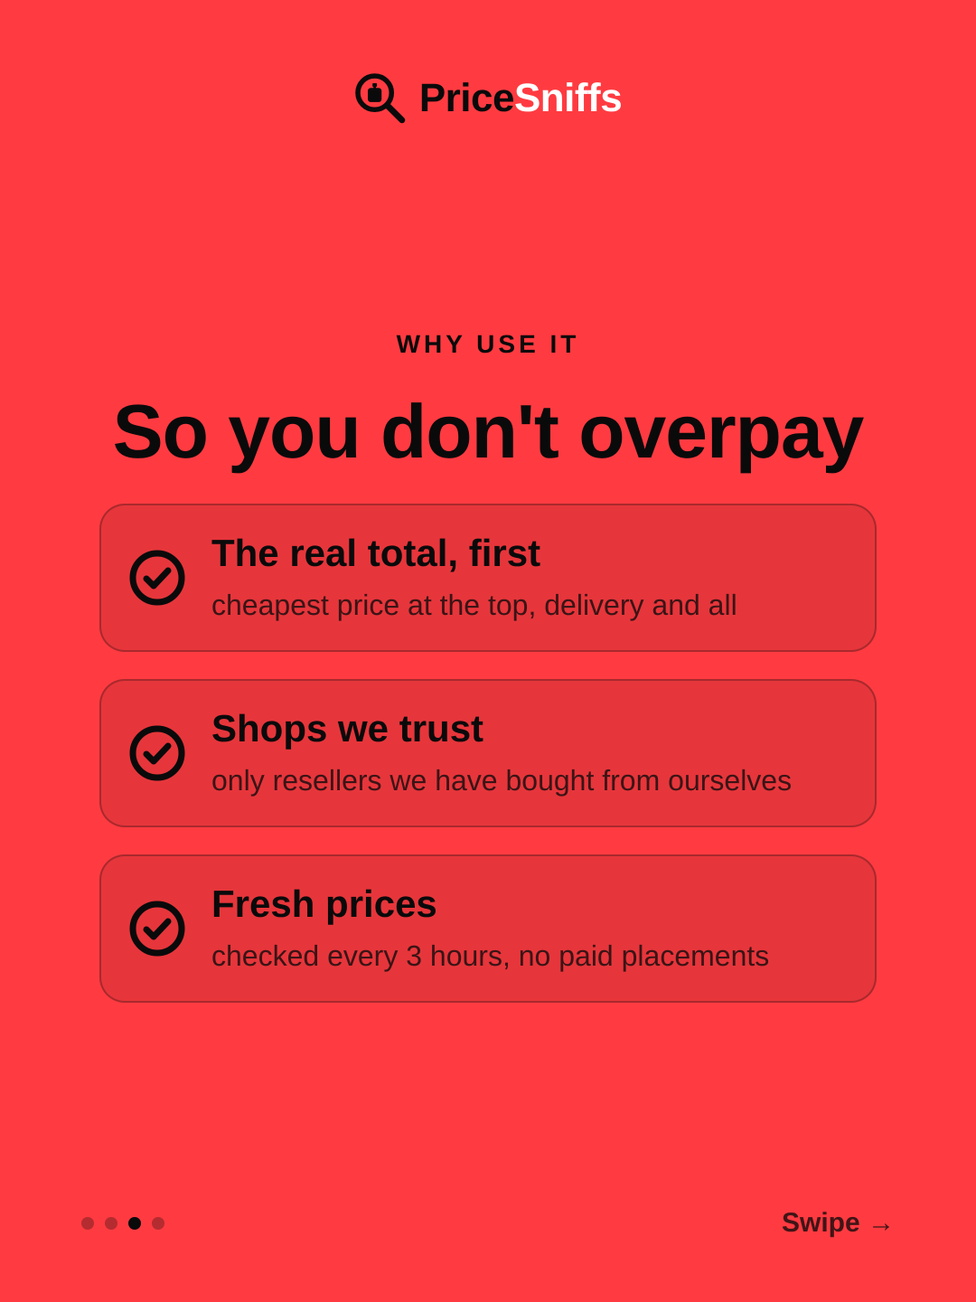
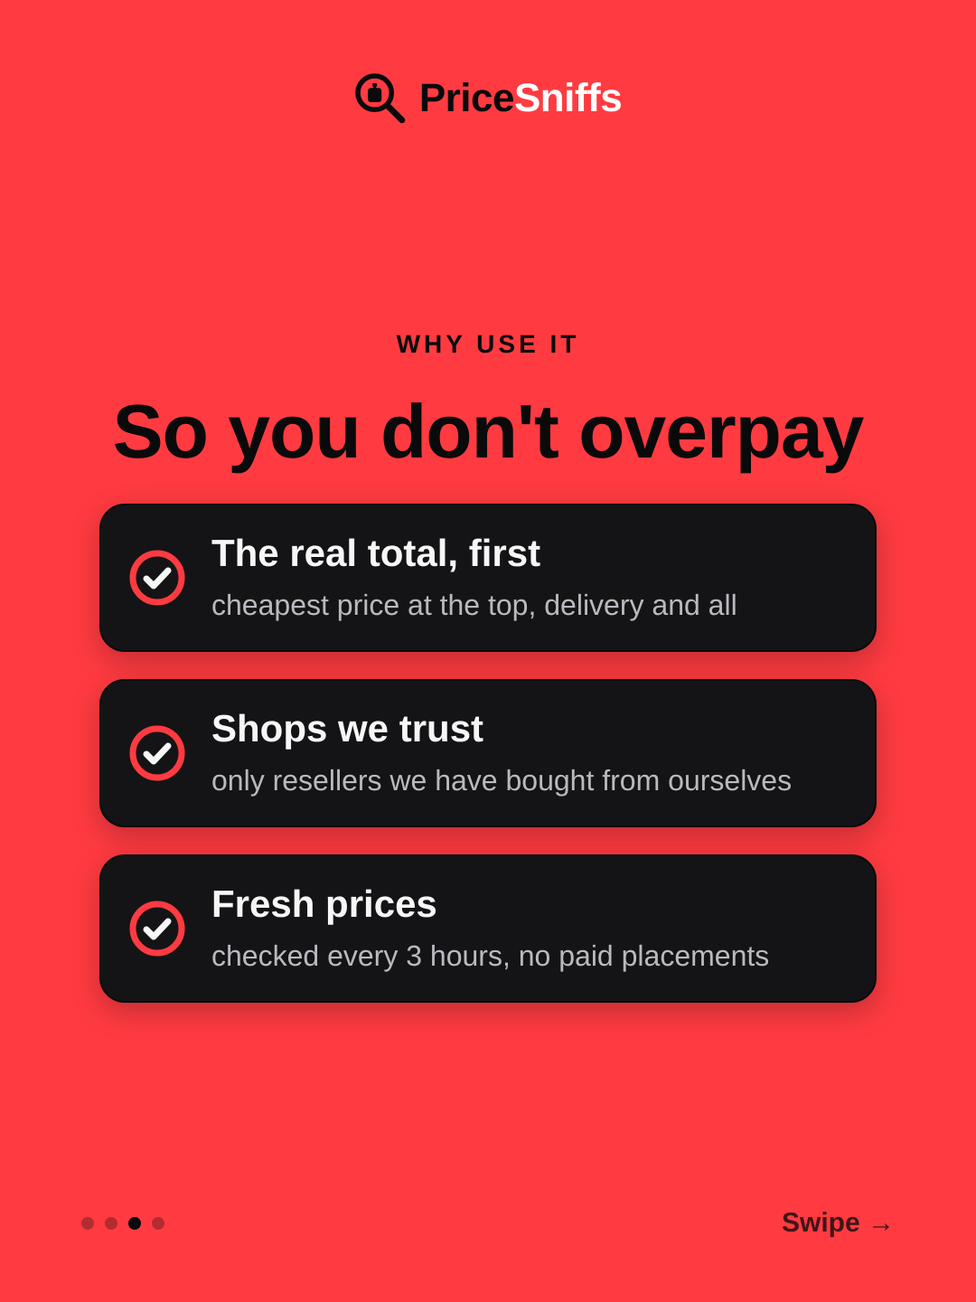
Social: near black cards in the inverted theme
Cards on red posts are now near black with a soft shadow, with white titles,
grey details and red ticks inside, so they stand out from the background.

Claude-Session: https://claude.ai/code/session_01R3frsh37eDNrxM6REtigC8

Changed region(s): [[0.0917, 0.375, 0.9167, 0.7812]]

diff --git a/social/posts/2026-10-02-what-is-pricesniffs/slide-1-3x4.html b/social/posts/2026-10-02-what-is-pricesniffs/slide-1-3x4.html
@@ -1,8 +1,9 @@
 <!doctype html><html><head><meta charset="utf-8"><meta name="social-size" content="1080x1440"><style>
   * { box-sizing: border-box; }
   html { --bg:#FF3B41; --ink:#0A0A0B; --ink-2:rgba(10,10,11,0.78); --ink-3:rgba(10,10,11,0.6); --accent:#FFFFFF; --kicker:#0A0A0B;
-    --card:rgba(10,10,11,0.1); --card-line:rgba(10,10,11,0.28); --icon:#0A0A0B; --icon-inner:#0A0A0B; --mark-ring:#0A0A0B; --mark-bottle:#0A0A0B;
-    --bar:rgba(10,10,11,0.3); --bar-best:#0A0A0B; --tag-bg:#0A0A0B; --tag-ink:#FF3B41; --pill-bg:#0A0A0B; --pill-ink:#FF3B41; --dot:rgba(10,10,11,0.3); --dot-on:#0A0A0B; }
+    --card:#141416; --card-line:#0A0A0B; --icon:#FF3B41; --icon-inner:#F7F7F8; --mark-ring:#0A0A0B; --mark-bottle:#0A0A0B;
+    --bar:#3A3A40; --bar-best:#FF3B41; --tag-bg:#FF3B41; --tag-ink:#0A0A0B; --pill-bg:#0A0A0B; --pill-ink:#FF3B41; --dot:rgba(10,10,11,0.3); --dot-on:#0A0A0B;
+    --card-ink:#F7F7F8; --card-ink-2:#B9B9C0; --card-ink-3:#8A8A93; --row-line:#26262B; --row-best:#FF3B41; --bar-rest:#5A5A62; }
   html, body { margin: 0; width: 1080px; height: 1440px; background: var(--bg); color: var(--ink);
     font-family: 'Liberation Sans', Arial, Helvetica, sans-serif; }
   main { height: 100%; padding: 80px 90px 70px; display: flex; flex-direction: column; align-items: center;
@@ -16,11 +17,11 @@
   .sub { margin: 0; font-size: 40px; line-height: 1.35; color: var(--ink-2); }
   .list { width: 100%; max-width: 860px; display: flex; flex-direction: column; gap: 30px; text-align: left; }
   .item { display: flex; align-items: center; gap: 28px; padding: 26px 30px; border-radius: 28px;
-    background: var(--card); border: 2px solid var(--card-line); }
+    background: var(--card); border: 2px solid var(--card-line); box-shadow: 0 10px 30px rgba(10,10,11,0.25); }
   .tick { flex: none; width: 64px; height: 64px; }
-  .item p { margin: 0; font-size: 38px; line-height: 1.3; }
+  .item p { margin: 0; font-size: 38px; line-height: 1.3; color: var(--card-ink); }
   .item b { display: block; font-size: 42px; margin-bottom: 4px; }
-  .item span { color: var(--ink-2); font-size: 32px; }
+  .item span { color: var(--card-ink-2); font-size: 32px; }
   .big-mark { width: 380px; height: 380px; }
   .foot { display: flex; align-items: center; justify-content: space-between; width: 100%; }
   .dots { display: flex; gap: 12px; }
@@ -28,17 +29,17 @@
   .dots i.on { background: var(--dot-on); }
   .swipe { font-size: 30px; font-weight: 700; color: var(--ink-2); }
   .pill { padding: 22px 52px; border-radius: 999px; background: var(--pill-bg); color: var(--pill-ink); font-size: 46px; font-weight: 700; }
-  .rows { width: 100%; max-width: 820px; border-radius: 28px; background: var(--card); border: 2px solid var(--card-line); padding: 10px 0; }
-  .row { display: flex; align-items: center; justify-content: space-between; padding: 22px 30px; border-bottom: 2px solid var(--card-line); }
+  .rows { width: 100%; max-width: 820px; border-radius: 28px; background: var(--card); border: 2px solid var(--card-line); padding: 10px 0; box-shadow: 0 10px 30px rgba(10,10,11,0.25); }
+  .row { display: flex; align-items: center; justify-content: space-between; padding: 22px 30px; border-bottom: 2px solid var(--row-line); }
   .row:last-child { border-bottom: 0; }
-  .row.best { border-left: 6px solid var(--ink); }
+  .row.best { border-left: 6px solid var(--row-best); }
   .shop { display: flex; align-items: center; gap: 16px; }
   .bar { height: 22px; border-radius: 11px; background: var(--bar); }
   .tag { font-size: 20px; font-weight: 700; letter-spacing: 2px; color: var(--tag-ink); background: var(--tag-bg); border-radius: 8px; padding: 6px 10px; }
   .price { display: flex; flex-direction: column; align-items: flex-end; gap: 8px; }
   .price .bar { background: var(--bar-best); }
-  .row:not(.best) .price .bar { background: var(--bar); }
-  .note { font-size: 20px; color: var(--ink-3); letter-spacing: 1px; text-transform: uppercase; }
+  .row:not(.best) .price .bar { background: var(--bar-rest); }
+  .note { font-size: 20px; color: var(--card-ink-3); letter-spacing: 1px; text-transform: uppercase; }
 </style></head><body><main>
   <div class="brandline"><svg class="mark" viewBox="240 240 610 610" aria-hidden="true"><circle cx="478" cy="478" r="196" fill="none" stroke="var(--mark-ring)" stroke-width="58"/><line x1="636" y1="636" x2="796" y2="796" stroke="var(--mark-ring)" stroke-width="72" stroke-linecap="round"/><g fill="var(--mark-bottle)"><rect x="452" y="366" width="52" height="42" rx="9"/><rect x="463" y="402" width="30" height="26"/><rect x="398" y="422" width="160" height="164" rx="34"/></g></svg><span>Price<em>Sniffs</em></span></div>
   <div class="body"><svg class="big-mark" viewBox="240 240 610 610" aria-hidden="true"><circle cx="478" cy="478" r="196" fill="none" stroke="var(--mark-ring)" stroke-width="58"/><line x1="636" y1="636" x2="796" y2="796" stroke="var(--mark-ring)" stroke-width="72" stroke-linecap="round"/><g fill="var(--mark-bottle)"><rect x="452" y="366" width="52" height="42" rx="9"/><rect x="463" y="402" width="30" height="26"/><rect x="398" y="422" width="160" height="164" rx="34"/></g></svg>

diff --git a/scripts/social-intro-slides.ts b/scripts/social-intro-slides.ts
@@ -36,10 +36,14 @@ const TICK = `<svg class="tick" viewBox="0 0 64 64" aria-hidden="true"><circle c
 const THEMES = {
   standard: `--bg:#0A0A0B; --ink:#F7F7F8; --ink-2:#B9B9C0; --ink-3:#8A8A93; --accent:#FF3B41; --kicker:#FF6A6E;
     --card:#121214; --card-line:#26262B; --icon:#FF3B41; --icon-inner:#F7F7F8; --mark-ring:#FF3B41; --mark-bottle:#F7F7F8;
-    --bar:#3A3A40; --bar-best:#4FB47B; --tag-bg:#1E0709; --tag-ink:#FF6A6E; --pill-bg:#FF3B41; --pill-ink:#0A0A0B; --dot:#3A3A40; --dot-on:#FF3B41;`,
+    --bar:#3A3A40; --bar-best:#4FB47B; --tag-bg:#1E0709; --tag-ink:#FF6A6E; --pill-bg:#FF3B41; --pill-ink:#0A0A0B; --dot:#3A3A40; --dot-on:#FF3B41;
+    --card-ink:#F7F7F8; --card-ink-2:#B9B9C0; --card-ink-3:#8A8A93; --row-line:#1E1E22; --row-best:#FF3B41; --bar-rest:#5A5A62;`,
+  // Cards are near black so they pop off the red; inside them the standard
+  // theme's light type and red ticks come back so they stay readable.
   inverted: `--bg:#FF3B41; --ink:#0A0A0B; --ink-2:rgba(10,10,11,0.78); --ink-3:rgba(10,10,11,0.6); --accent:#FFFFFF; --kicker:#0A0A0B;
-    --card:rgba(10,10,11,0.1); --card-line:rgba(10,10,11,0.28); --icon:#0A0A0B; --icon-inner:#0A0A0B; --mark-ring:#0A0A0B; --mark-bottle:#0A0A0B;
-    --bar:rgba(10,10,11,0.3); --bar-best:#0A0A0B; --tag-bg:#0A0A0B; --tag-ink:#FF3B41; --pill-bg:#0A0A0B; --pill-ink:#FF3B41; --dot:rgba(10,10,11,0.3); --dot-on:#0A0A0B;`,
+    --card:#141416; --card-line:#0A0A0B; --icon:#FF3B41; --icon-inner:#F7F7F8; --mark-ring:#0A0A0B; --mark-bottle:#0A0A0B;
+    --bar:#3A3A40; --bar-best:#FF3B41; --tag-bg:#FF3B41; --tag-ink:#0A0A0B; --pill-bg:#0A0A0B; --pill-ink:#FF3B41; --dot:rgba(10,10,11,0.3); --dot-on:#0A0A0B;
+    --card-ink:#F7F7F8; --card-ink-2:#B9B9C0; --card-ink-3:#8A8A93; --row-line:#26262B; --row-best:#FF3B41; --bar-rest:#5A5A62;`,
 };
 const THEME: keyof typeof THEMES = 'inverted';
 
@@ -59,11 +63,11 @@ const CSS = `
   .sub { margin: 0; font-size: 40px; line-height: 1.35; color: var(--ink-2); }
   .list { width: 100%; max-width: 860px; display: flex; flex-direction: column; gap: 30px; text-align: left; }
   .item { display: flex; align-items: center; gap: 28px; padding: 26px 30px; border-radius: 28px;
-    background: var(--card); border: 2px solid var(--card-line); }
+    background: var(--card); border: 2px solid var(--card-line); box-shadow: 0 10px 30px rgba(10,10,11,0.25); }
   .tick { flex: none; width: 64px; height: 64px; }
-  .item p { margin: 0; font-size: 38px; line-height: 1.3; }
+  .item p { margin: 0; font-size: 38px; line-height: 1.3; color: var(--card-ink); }
   .item b { display: block; font-size: 42px; margin-bottom: 4px; }
-  .item span { color: var(--ink-2); font-size: 32px; }
+  .item span { color: var(--card-ink-2); font-size: 32px; }
   .big-mark { width: 380px; height: 380px; }
   .foot { display: flex; align-items: center; justify-content: space-between; width: 100%; }
   .dots { display: flex; gap: 12px; }
@@ -71,17 +75,17 @@ const CSS = `
   .dots i.on { background: var(--dot-on); }
   .swipe { font-size: 30px; font-weight: 700; color: var(--ink-2); }
   .pill { padding: 22px 52px; border-radius: 999px; background: var(--pill-bg); color: var(--pill-ink); font-size: 46px; font-weight: 700; }
-  .rows { width: 100%; max-width: 820px; border-radius: 28px; background: var(--card); border: 2px solid var(--card-line); padding: 10px 0; }
-  .row { display: flex; align-items: center; justify-content: space-between; padding: 22px 30px; border-bottom: 2px solid var(--card-line); }
+  .rows { width: 100%; max-width: 820px; border-radius: 28px; background: var(--card); border: 2px solid var(--card-line); padding: 10px 0; box-shadow: 0 10px 30px rgba(10,10,11,0.25); }
+  .row { display: flex; align-items: center; justify-content: space-between; padding: 22px 30px; border-bottom: 2px solid var(--row-line); }
   .row:last-child { border-bottom: 0; }
-  .row.best { border-left: 6px solid var(--ink); }
+  .row.best { border-left: 6px solid var(--row-best); }
   .shop { display: flex; align-items: center; gap: 16px; }
   .bar { height: 22px; border-radius: 11px; background: var(--bar); }
   .tag { font-size: 20px; font-weight: 700; letter-spacing: 2px; color: var(--tag-ink); background: var(--tag-bg); border-radius: 8px; padding: 6px 10px; }
   .price { display: flex; flex-direction: column; align-items: flex-end; gap: 8px; }
   .price .bar { background: var(--bar-best); }
-  .row:not(.best) .price .bar { background: var(--bar); }
-  .note { font-size: 20px; color: var(--ink-3); letter-spacing: 1px; text-transform: uppercase; }
+  .row:not(.best) .price .bar { background: var(--bar-rest); }
+  .note { font-size: 20px; color: var(--card-ink-3); letter-spacing: 1px; text-transform: uppercase; }
 `;
 
 function slide(n: number, inner: string, footRight: string): string {

diff --git a/social/posts/2026-10-02-what-is-pricesniffs/slide-4-3x4.html b/social/posts/2026-10-02-what-is-pricesniffs/slide-4-3x4.html
@@ -1,8 +1,9 @@
 <!doctype html><html><head><meta charset="utf-8"><meta name="social-size" content="1080x1440"><style>
   * { box-sizing: border-box; }
   html { --bg:#FF3B41; --ink:#0A0A0B; --ink-2:rgba(10,10,11,0.78); --ink-3:rgba(10,10,11,0.6); --accent:#FFFFFF; --kicker:#0A0A0B;
-    --card:rgba(10,10,11,0.1); --card-line:rgba(10,10,11,0.28); --icon:#0A0A0B; --icon-inner:#0A0A0B; --mark-ring:#0A0A0B; --mark-bottle:#0A0A0B;
-    --bar:rgba(10,10,11,0.3); --bar-best:#0A0A0B; --tag-bg:#0A0A0B; --tag-ink:#FF3B41; --pill-bg:#0A0A0B; --pill-ink:#FF3B41; --dot:rgba(10,10,11,0.3); --dot-on:#0A0A0B; }
+    --card:#141416; --card-line:#0A0A0B; --icon:#FF3B41; --icon-inner:#F7F7F8; --mark-ring:#0A0A0B; --mark-bottle:#0A0A0B;
+    --bar:#3A3A40; --bar-best:#FF3B41; --tag-bg:#FF3B41; --tag-ink:#0A0A0B; --pill-bg:#0A0A0B; --pill-ink:#FF3B41; --dot:rgba(10,10,11,0.3); --dot-on:#0A0A0B;
+    --card-ink:#F7F7F8; --card-ink-2:#B9B9C0; --card-ink-3:#8A8A93; --row-line:#26262B; --row-best:#FF3B41; --bar-rest:#5A5A62; }
   html, body { margin: 0; width: 1080px; height: 1440px; background: var(--bg); color: var(--ink);
     font-family: 'Liberation Sans', Arial, Helvetica, sans-serif; }
   main { height: 100%; padding: 80px 90px 70px; display: flex; flex-direction: column; align-items: center;
@@ -16,11 +17,11 @@
   .sub { margin: 0; font-size: 40px; line-height: 1.35; color: var(--ink-2); }
   .list { width: 100%; max-width: 860px; display: flex; flex-direction: column; gap: 30px; text-align: left; }
   .item { display: flex; align-items: center; gap: 28px; padding: 26px 30px; border-radius: 28px;
-    background: var(--card); border: 2px solid var(--card-line); }
+    background: var(--card); border: 2px solid var(--card-line); box-shadow: 0 10px 30px rgba(10,10,11,0.25); }
   .tick { flex: none; width: 64px; height: 64px; }
-  .item p { margin: 0; font-size: 38px; line-height: 1.3; }
+  .item p { margin: 0; font-size: 38px; line-height: 1.3; color: var(--card-ink); }
   .item b { display: block; font-size: 42px; margin-bottom: 4px; }
-  .item span { color: var(--ink-2); font-size: 32px; }
+  .item span { color: var(--card-ink-2); font-size: 32px; }
   .big-mark { width: 380px; height: 380px; }
   .foot { display: flex; align-items: center; justify-content: space-between; width: 100%; }
   .dots { display: flex; gap: 12px; }
@@ -28,17 +29,17 @@
   .dots i.on { background: var(--dot-on); }
   .swipe { font-size: 30px; font-weight: 700; color: var(--ink-2); }
   .pill { padding: 22px 52px; border-radius: 999px; background: var(--pill-bg); color: var(--pill-ink); font-size: 46px; font-weight: 700; }
-  .rows { width: 100%; max-width: 820px; border-radius: 28px; background: var(--card); border: 2px solid var(--card-line); padding: 10px 0; }
-  .row { display: flex; align-items: center; justify-content: space-between; padding: 22px 30px; border-bottom: 2px solid var(--card-line); }
+  .rows { width: 100%; max-width: 820px; border-radius: 28px; background: var(--card); border: 2px solid var(--card-line); padding: 10px 0; box-shadow: 0 10px 30px rgba(10,10,11,0.25); }
+  .row { display: flex; align-items: center; justify-content: space-between; padding: 22px 30px; border-bottom: 2px solid var(--row-line); }
   .row:last-child { border-bottom: 0; }
-  .row.best { border-left: 6px solid var(--ink); }
+  .row.best { border-left: 6px solid var(--row-best); }
   .shop { display: flex; align-items: center; gap: 16px; }
   .bar { height: 22px; border-radius: 11px; background: var(--bar); }
   .tag { font-size: 20px; font-weight: 700; letter-spacing: 2px; color: var(--tag-ink); background: var(--tag-bg); border-radius: 8px; padding: 6px 10px; }
   .price { display: flex; flex-direction: column; align-items: flex-end; gap: 8px; }
   .price .bar { background: var(--bar-best); }
-  .row:not(.best) .price .bar { background: var(--bar); }
-  .note { font-size: 20px; color: var(--ink-3); letter-spacing: 1px; text-transform: uppercase; }
+  .row:not(.best) .price .bar { background: var(--bar-rest); }
+  .note { font-size: 20px; color: var(--card-ink-3); letter-spacing: 1px; text-transform: uppercase; }
 </style></head><body><main>
   <div class="brandline"><svg class="mark" viewBox="240 240 610 610" aria-hidden="true"><circle cx="478" cy="478" r="196" fill="none" stroke="var(--mark-ring)" stroke-width="58"/><line x1="636" y1="636" x2="796" y2="796" stroke="var(--mark-ring)" stroke-width="72" stroke-linecap="round"/><g fill="var(--mark-bottle)"><rect x="452" y="366" width="52" height="42" rx="9"/><rect x="463" y="402" width="30" height="26"/><rect x="398" y="422" width="160" height="164" rx="34"/></g></svg><span>Price<em>Sniffs</em></span></div>
   <div class="body"><p class="kicker">Want to dig around more?</p>

diff --git a/social/posts/2026-10-02-what-is-pricesniffs/slide-2-3x4.html b/social/posts/2026-10-02-what-is-pricesniffs/slide-2-3x4.html
@@ -1,8 +1,9 @@
 <!doctype html><html><head><meta charset="utf-8"><meta name="social-size" content="1080x1440"><style>
   * { box-sizing: border-box; }
   html { --bg:#FF3B41; --ink:#0A0A0B; --ink-2:rgba(10,10,11,0.78); --ink-3:rgba(10,10,11,0.6); --accent:#FFFFFF; --kicker:#0A0A0B;
-    --card:rgba(10,10,11,0.1); --card-line:rgba(10,10,11,0.28); --icon:#0A0A0B; --icon-inner:#0A0A0B; --mark-ring:#0A0A0B; --mark-bottle:#0A0A0B;
-    --bar:rgba(10,10,11,0.3); --bar-best:#0A0A0B; --tag-bg:#0A0A0B; --tag-ink:#FF3B41; --pill-bg:#0A0A0B; --pill-ink:#FF3B41; --dot:rgba(10,10,11,0.3); --dot-on:#0A0A0B; }
+    --card:#141416; --card-line:#0A0A0B; --icon:#FF3B41; --icon-inner:#F7F7F8; --mark-ring:#0A0A0B; --mark-bottle:#0A0A0B;
+    --bar:#3A3A40; --bar-best:#FF3B41; --tag-bg:#FF3B41; --tag-ink:#0A0A0B; --pill-bg:#0A0A0B; --pill-ink:#FF3B41; --dot:rgba(10,10,11,0.3); --dot-on:#0A0A0B;
+    --card-ink:#F7F7F8; --card-ink-2:#B9B9C0; --card-ink-3:#8A8A93; --row-line:#26262B; --row-best:#FF3B41; --bar-rest:#5A5A62; }
   html, body { margin: 0; width: 1080px; height: 1440px; background: var(--bg); color: var(--ink);
     font-family: 'Liberation Sans', Arial, Helvetica, sans-serif; }
   main { height: 100%; padding: 80px 90px 70px; display: flex; flex-direction: column; align-items: center;
@@ -16,11 +17,11 @@
   .sub { margin: 0; font-size: 40px; line-height: 1.35; color: var(--ink-2); }
   .list { width: 100%; max-width: 860px; display: flex; flex-direction: column; gap: 30px; text-align: left; }
   .item { display: flex; align-items: center; gap: 28px; padding: 26px 30px; border-radius: 28px;
-    background: var(--card); border: 2px solid var(--card-line); }
+    background: var(--card); border: 2px solid var(--card-line); box-shadow: 0 10px 30px rgba(10,10,11,0.25); }
   .tick { flex: none; width: 64px; height: 64px; }
-  .item p { margin: 0; font-size: 38px; line-height: 1.3; }
+  .item p { margin: 0; font-size: 38px; line-height: 1.3; color: var(--card-ink); }
   .item b { display: block; font-size: 42px; margin-bottom: 4px; }
-  .item span { color: var(--ink-2); font-size: 32px; }
+  .item span { color: var(--card-ink-2); font-size: 32px; }
   .big-mark { width: 380px; height: 380px; }
   .foot { display: flex; align-items: center; justify-content: space-between; width: 100%; }
   .dots { display: flex; gap: 12px; }
@@ -28,17 +29,17 @@
   .dots i.on { background: var(--dot-on); }
   .swipe { font-size: 30px; font-weight: 700; color: var(--ink-2); }
   .pill { padding: 22px 52px; border-radius: 999px; background: var(--pill-bg); color: var(--pill-ink); font-size: 46px; font-weight: 700; }
-  .rows { width: 100%; max-width: 820px; border-radius: 28px; background: var(--card); border: 2px solid var(--card-line); padding: 10px 0; }
-  .row { display: flex; align-items: center; justify-content: space-between; padding: 22px 30px; border-bottom: 2px solid var(--card-line); }
+  .rows { width: 100%; max-width: 820px; border-radius: 28px; background: var(--card); border: 2px solid var(--card-line); padding: 10px 0; box-shadow: 0 10px 30px rgba(10,10,11,0.25); }
+  .row { display: flex; align-items: center; justify-content: space-between; padding: 22px 30px; border-bottom: 2px solid var(--row-line); }
   .row:last-child { border-bottom: 0; }
-  .row.best { border-left: 6px solid var(--ink); }
+  .row.best { border-left: 6px solid var(--row-best); }
   .shop { display: flex; align-items: center; gap: 16px; }
   .bar { height: 22px; border-radius: 11px; background: var(--bar); }
   .tag { font-size: 20px; font-weight: 700; letter-spacing: 2px; color: var(--tag-ink); background: var(--tag-bg); border-radius: 8px; padding: 6px 10px; }
   .price { display: flex; flex-direction: column; align-items: flex-end; gap: 8px; }
   .price .bar { background: var(--bar-best); }
-  .row:not(.best) .price .bar { background: var(--bar); }
-  .note { font-size: 20px; color: var(--ink-3); letter-spacing: 1px; text-transform: uppercase; }
+  .row:not(.best) .price .bar { background: var(--bar-rest); }
+  .note { font-size: 20px; color: var(--card-ink-3); letter-spacing: 1px; text-transform: uppercase; }
 </style></head><body><main>
   <div class="brandline"><svg class="mark" viewBox="240 240 610 610" aria-hidden="true"><circle cx="478" cy="478" r="196" fill="none" stroke="var(--mark-ring)" stroke-width="58"/><line x1="636" y1="636" x2="796" y2="796" stroke="var(--mark-ring)" stroke-width="72" stroke-linecap="round"/><g fill="var(--mark-bottle)"><rect x="452" y="366" width="52" height="42" rx="9"/><rect x="463" y="402" width="30" height="26"/><rect x="398" y="422" width="160" height="164" rx="34"/></g></svg><span>Price<em>Sniffs</em></span></div>
   <div class="body"><p class="kicker">What it does</p>

diff --git a/social/posts/2026-10-02-what-is-pricesniffs/slide-3-3x4.html b/social/posts/2026-10-02-what-is-pricesniffs/slide-3-3x4.html
@@ -1,8 +1,9 @@
 <!doctype html><html><head><meta charset="utf-8"><meta name="social-size" content="1080x1440"><style>
   * { box-sizing: border-box; }
   html { --bg:#FF3B41; --ink:#0A0A0B; --ink-2:rgba(10,10,11,0.78); --ink-3:rgba(10,10,11,0.6); --accent:#FFFFFF; --kicker:#0A0A0B;
-    --card:rgba(10,10,11,0.1); --card-line:rgba(10,10,11,0.28); --icon:#0A0A0B; --icon-inner:#0A0A0B; --mark-ring:#0A0A0B; --mark-bottle:#0A0A0B;
-    --bar:rgba(10,10,11,0.3); --bar-best:#0A0A0B; --tag-bg:#0A0A0B; --tag-ink:#FF3B41; --pill-bg:#0A0A0B; --pill-ink:#FF3B41; --dot:rgba(10,10,11,0.3); --dot-on:#0A0A0B; }
+    --card:#141416; --card-line:#0A0A0B; --icon:#FF3B41; --icon-inner:#F7F7F8; --mark-ring:#0A0A0B; --mark-bottle:#0A0A0B;
+    --bar:#3A3A40; --bar-best:#FF3B41; --tag-bg:#FF3B41; --tag-ink:#0A0A0B; --pill-bg:#0A0A0B; --pill-ink:#FF3B41; --dot:rgba(10,10,11,0.3); --dot-on:#0A0A0B;
+    --card-ink:#F7F7F8; --card-ink-2:#B9B9C0; --card-ink-3:#8A8A93; --row-line:#26262B; --row-best:#FF3B41; --bar-rest:#5A5A62; }
   html, body { margin: 0; width: 1080px; height: 1440px; background: var(--bg); color: var(--ink);
     font-family: 'Liberation Sans', Arial, Helvetica, sans-serif; }
   main { height: 100%; padding: 80px 90px 70px; display: flex; flex-direction: column; align-items: center;
@@ -16,11 +17,11 @@
   .sub { margin: 0; font-size: 40px; line-height: 1.35; color: var(--ink-2); }
   .list { width: 100%; max-width: 860px; display: flex; flex-direction: column; gap: 30px; text-align: left; }
   .item { display: flex; align-items: center; gap: 28px; padding: 26px 30px; border-radius: 28px;
-    background: var(--card); border: 2px solid var(--card-line); }
+    background: var(--card); border: 2px solid var(--card-line); box-shadow: 0 10px 30px rgba(10,10,11,0.25); }
   .tick { flex: none; width: 64px; height: 64px; }
-  .item p { margin: 0; font-size: 38px; line-height: 1.3; }
+  .item p { margin: 0; font-size: 38px; line-height: 1.3; color: var(--card-ink); }
   .item b { display: block; font-size: 42px; margin-bottom: 4px; }
-  .item span { color: var(--ink-2); font-size: 32px; }
+  .item span { color: var(--card-ink-2); font-size: 32px; }
   .big-mark { width: 380px; height: 380px; }
   .foot { display: flex; align-items: center; justify-content: space-between; width: 100%; }
   .dots { display: flex; gap: 12px; }
@@ -28,17 +29,17 @@
   .dots i.on { background: var(--dot-on); }
   .swipe { font-size: 30px; font-weight: 700; color: var(--ink-2); }
   .pill { padding: 22px 52px; border-radius: 999px; background: var(--pill-bg); color: var(--pill-ink); font-size: 46px; font-weight: 700; }
-  .rows { width: 100%; max-width: 820px; border-radius: 28px; background: var(--card); border: 2px solid var(--card-line); padding: 10px 0; }
-  .row { display: flex; align-items: center; justify-content: space-between; padding: 22px 30px; border-bottom: 2px solid var(--card-line); }
+  .rows { width: 100%; max-width: 820px; border-radius: 28px; background: var(--card); border: 2px solid var(--card-line); padding: 10px 0; box-shadow: 0 10px 30px rgba(10,10,11,0.25); }
+  .row { display: flex; align-items: center; justify-content: space-between; padding: 22px 30px; border-bottom: 2px solid var(--row-line); }
   .row:last-child { border-bottom: 0; }
-  .row.best { border-left: 6px solid var(--ink); }
+  .row.best { border-left: 6px solid var(--row-best); }
   .shop { display: flex; align-items: center; gap: 16px; }
   .bar { height: 22px; border-radius: 11px; background: var(--bar); }
   .tag { font-size: 20px; font-weight: 700; letter-spacing: 2px; color: var(--tag-ink); background: var(--tag-bg); border-radius: 8px; padding: 6px 10px; }
   .price { display: flex; flex-direction: column; align-items: flex-end; gap: 8px; }
   .price .bar { background: var(--bar-best); }
-  .row:not(.best) .price .bar { background: var(--bar); }
-  .note { font-size: 20px; color: var(--ink-3); letter-spacing: 1px; text-transform: uppercase; }
+  .row:not(.best) .price .bar { background: var(--bar-rest); }
+  .note { font-size: 20px; color: var(--card-ink-3); letter-spacing: 1px; text-transform: uppercase; }
 </style></head><body><main>
   <div class="brandline"><svg class="mark" viewBox="240 240 610 610" aria-hidden="true"><circle cx="478" cy="478" r="196" fill="none" stroke="var(--mark-ring)" stroke-width="58"/><line x1="636" y1="636" x2="796" y2="796" stroke="var(--mark-ring)" stroke-width="72" stroke-linecap="round"/><g fill="var(--mark-bottle)"><rect x="452" y="366" width="52" height="42" rx="9"/><rect x="463" y="402" width="30" height="26"/><rect x="398" y="422" width="160" height="164" rx="34"/></g></svg><span>Price<em>Sniffs</em></span></div>
   <div class="body"><p class="kicker">Why use it</p>

diff --git a/social/DESIGN-SYSTEM.md b/social/DESIGN-SYSTEM.md
@@ -15,10 +15,13 @@ There are two themes, built from the same four colours.
 | **Inverted** | Every one off post: launches, explainers, carousels, announcements | Red `#FF3B41` | Black `#0A0A0B` (icons, logo mark, headlines, body text at 78% black) | White, for large type only ("Sniffs") |
 
 The inverted theme makes one off posts stand out from the daily deals in
-the grid. In it, the logo mark is all black, cards are a light black tint
-with a thin black border, the "Link in bio" pill is black with red text, and
-the wordmark reads "Price" black, "Sniffs" white. Black on this red is about
-6:1 contrast, so all small text stays black; white is only for large type.
+the grid. In it, the logo mark is all black, the "Link in bio" pill is black
+with red text, and the wordmark reads "Price" black, "Sniffs" white. Cards
+(lists, the price table) are near black `#141416` with a soft shadow so they
+pop off the red, and inside a card the standard theme comes back: white
+titles, grey `#B9B9C0` details, red ticks, a red bar for the cheapest price.
+Black on this red is about 6:1 contrast, so small text on the red stays
+black; white is only for large type.
 
 | Name | Hex | Standard theme | Inverted theme |
 |---|---|---|---|
